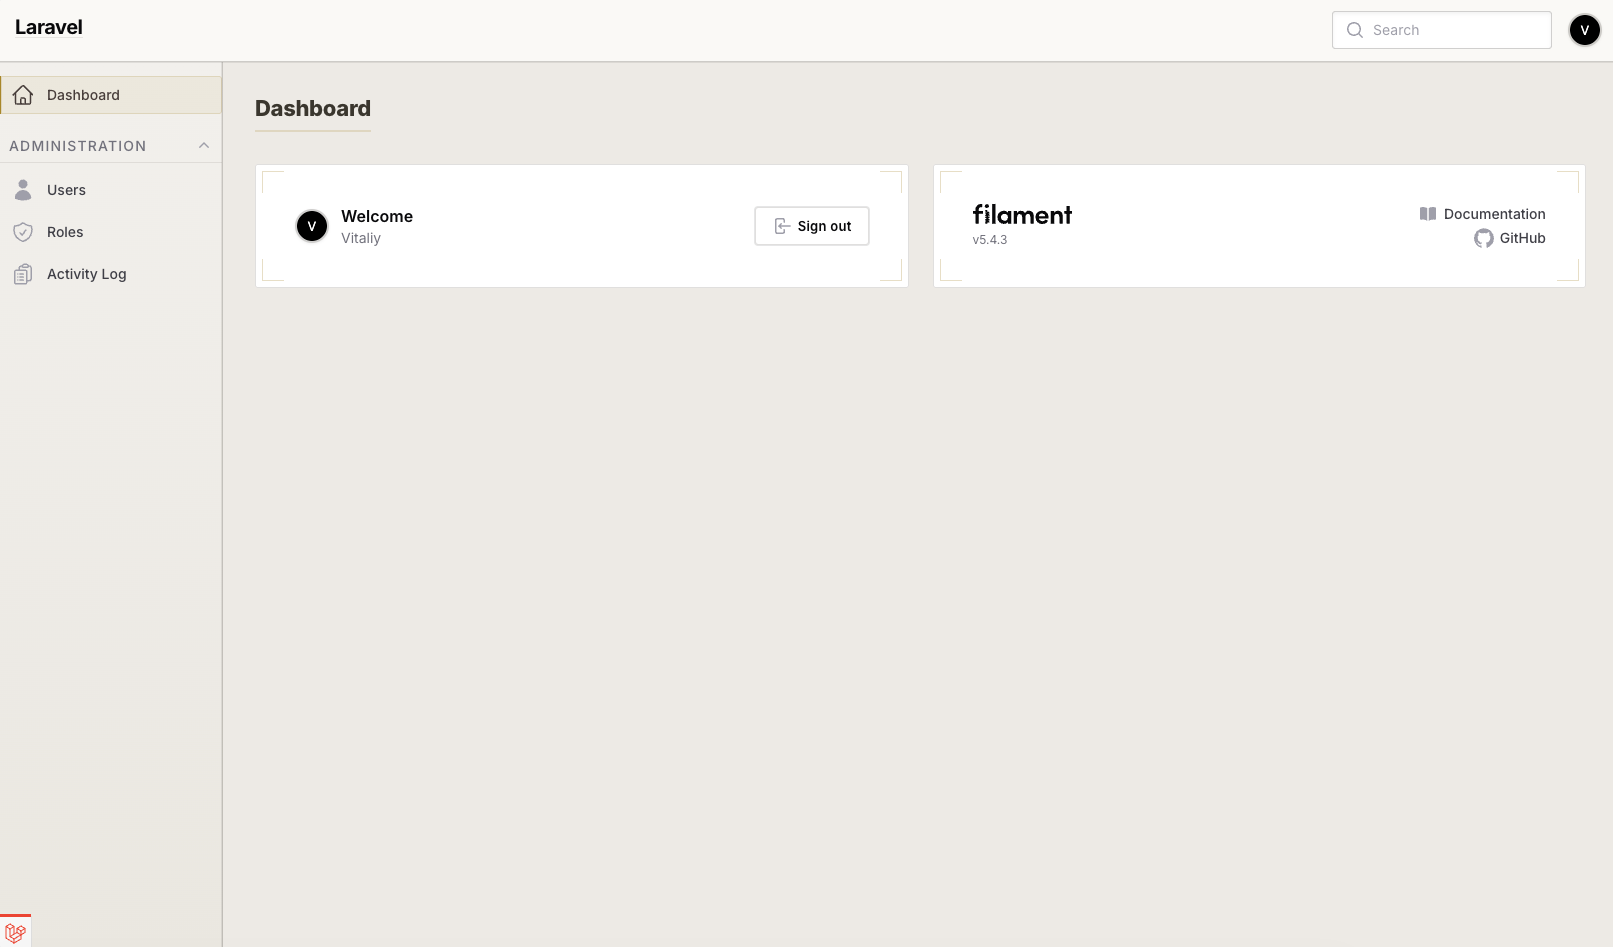
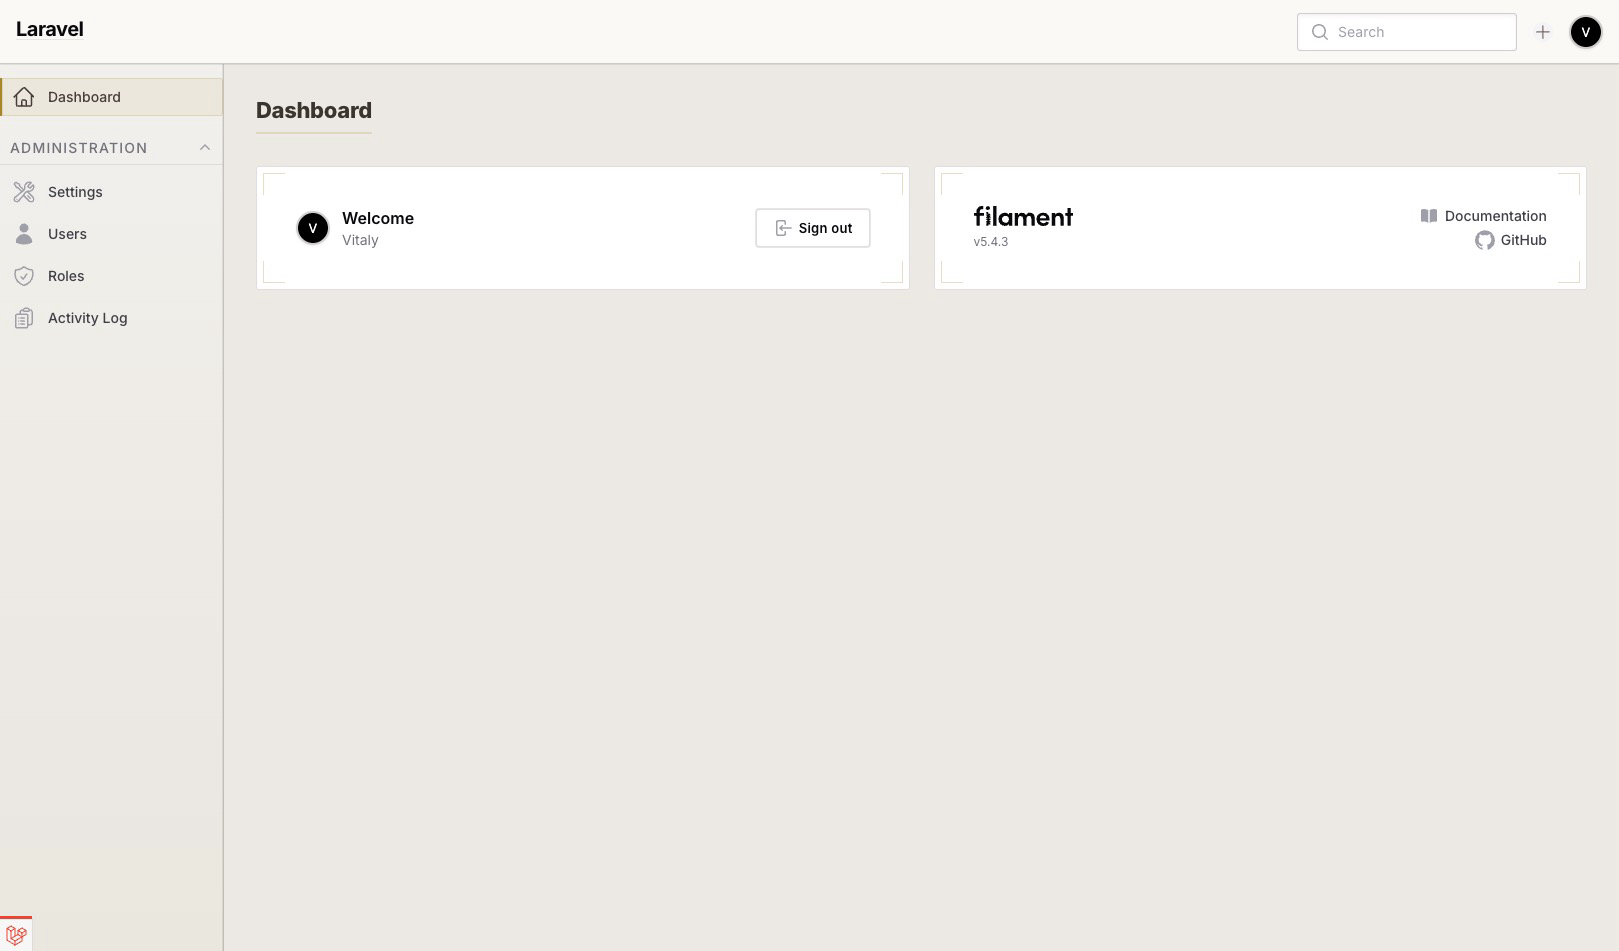
Add plugin for quick create and manage settings. Update readme

diff --git a/resources/css/filament/admin/theme.css b/resources/css/filament/admin/theme.css
@@ -4,6 +4,7 @@
 @source '../../../../app/Filament/**/*';
 @source '../../../../resources/views/filament/**/*';
 @source '../../../../vendor/jeffgreco13/filament-breezy/resources/**/*';
+@source '../../../../vendor/awcodes/filament-quick-create/resources/**/*.blade.php';
 
 .fi-ta-header-cell, .fi-ta-selection-cell, .fi-ta-empty-header-cell {
     border-bottom: initial;

diff --git a/app/Filament/Pages/GeneralSettings.php b/app/Filament/Pages/GeneralSettings.php
@@ -1,0 +1,54 @@
+<?php
+
+namespace App\Filament\Pages;
+
+use Filament\Schemas\Components;
+use Filament\Schemas\Schema;
+use Illuminate\Support\Facades\View;
+use Illuminate\Support\HtmlString;
+use Inerba\DbConfig\AbstractPageSettings;
+
+class GeneralSettings extends AbstractPageSettings
+{
+    /**
+     * @var array<string, mixed> | null
+     */
+    public ?array $data = [];
+
+    protected static ?string $title = 'Settings';
+
+    protected function settingName(): string
+    {
+        return 'general';
+    }
+
+    public static function getNavigationGroup(): ?string
+    {
+        return 'Administration';
+    }
+
+    /**
+     * Provide default values.
+     *
+     * @return array<string, mixed>
+     */
+    public function getDefaultData(): array
+    {
+        return [];
+    }
+
+    public function form(Schema $schema): Schema
+    {
+        return $schema
+            ->components([
+                // You can delete these statements!
+                Components\Text::make(new HtmlString(
+                    View::make('db-config::filament.pages.settings-help', [
+                        'group' => $this->settingName(),
+                        'pageClass' => class_basename(self::class),
+                    ])->render()
+                )),
+            ])
+            ->statePath('data');
+    }
+}

diff --git a/app/Providers/Filament/AdminPanelProvider.php b/app/Providers/Filament/AdminPanelProvider.php
@@ -2,6 +2,8 @@
 
 namespace App\Providers\Filament;
 
+use App\Filament\Resources\Users\UserResource;
+use Awcodes\QuickCreate\QuickCreatePlugin;
 use BezhanSalleh\FilamentShield\FilamentShieldPlugin;
 use Filament\Http\Middleware\Authenticate;
 use Filament\Http\Middleware\AuthenticateSession;
@@ -65,6 +67,10 @@ class AdminPanelProvider extends PanelProvider
                 FilamentLoggerPlugin::make(),
                 BreezyCore::make()
                     ->myProfile(),
+                QuickCreatePlugin::make()
+                    ->includes([
+                        UserResource::class,
+                    ]),
             ])
             ->sidebarWidth('14rem')
             ->authMiddleware([

diff --git a/database/migrations/2026_04_02_085341_create_db_config_table.php b/database/migrations/2026_04_02_085341_create_db_config_table.php
@@ -1,0 +1,27 @@
+<?php
+
+use Illuminate\Database\Migrations\Migration;
+use Illuminate\Database\Schema\Blueprint;
+use Illuminate\Support\Facades\Schema;
+
+return new class extends Migration
+{
+    public function up()
+    {
+        $tableName = config('db-config.table_name', 'db_config');
+
+        Schema::create($tableName, function (Blueprint $table) {
+            $table->id();
+
+            $table->string('group');
+
+            $table->string('key');
+
+            $table->json('settings')->nullable();
+
+            $table->unique(['group', 'key']);
+
+            $table->timestamps();
+        });
+    }
+};

diff --git a/README.md b/README.md
@@ -64,14 +64,16 @@ php artisan shield:generate --all --ignore-existing-policies --panel=admin
 - [Shield](https://filamentphp.com/plugins/bezhansalleh-shield) Access management to your Filament Panel's Resources, Pages & Widgets through spatie/laravel-permission.
 - [Backgrounds](https://filamentphp.com/plugins/swisnl-backgrounds) Beautiful backgrounds for Filament auth pages.
 - [Logger](https://filamentphp.com/plugins/jacobtims-logger) Extensible activity logger for filament that works out-of-the-box.
-- [Theme Edinburgh](https://filamentphp.com/plugins/spykapp-theme-edinburgh) Beautiful theme with warm palette
+- [Theme Edinburgh](https://filamentphp.com/plugins/spykapp-theme-edinburgh) Beautiful theme with warm palette.
 - [Breezy](https://filamentphp.com/plugins/jeffgreco-breezy) My Profile page.
+- [DB Config](https://filamentphp.com/plugins/inerba-db-config) Settings page.
+- [Quick Create](https://filamentphp.com/plugins/awcodes-quick-create) Topbar item for quick resource creation.
 
 ## 🧑💻Development Include
 
 - [barryvdh/laravel-debugbar](https://github.com/barryvdh/laravel-debugbar) The most popular debugging tool for Laravel, providing detailed request and query insights.
 - [larastan/larastan](https://github.com/larastan/larastan) A PHPStan extension for Laravel, configured at level 5 for robust static code analysis.
-- [plannr/laravel-fast-refresh-database](https://github.com/PlannrCrm/laravel-fast-refresh-database) 🚀 Refresh your test databases faster than you've ever seen before
+- [plannr/laravel-fast-refresh-database](https://github.com/PlannrCrm/laravel-fast-refresh-database) 🚀 Refresh your test databases faster than you've ever seen before.
 
 The `composer check` script runs **tests, PHPStan, and Pint** for code quality assurance:
 ```bash
